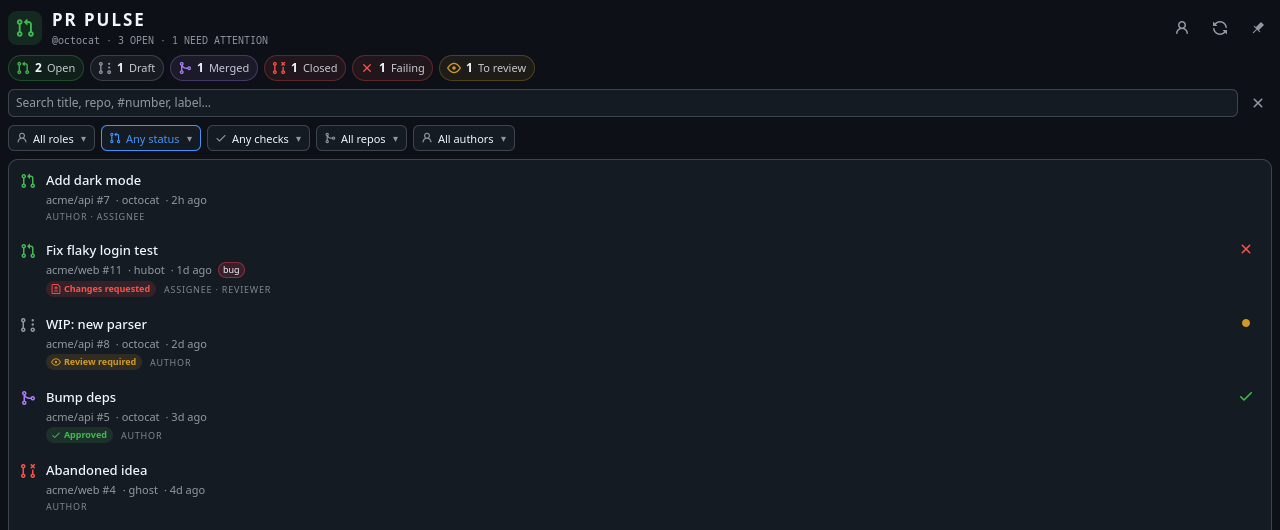
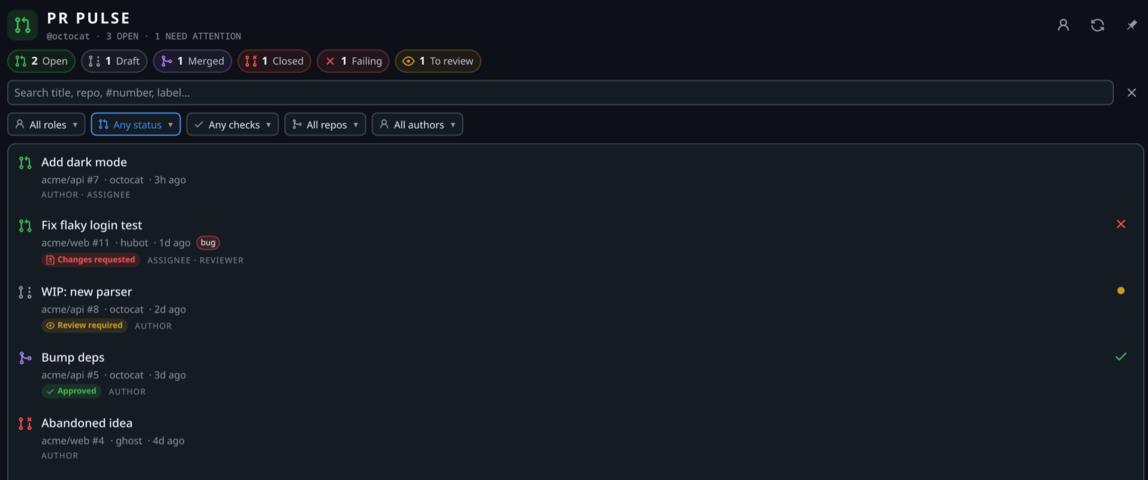
fix: size popup from grid units and refresh README screenshots

diff --git a/contents/ui/main.qml b/contents/ui/main.qml
@@ -56,8 +56,8 @@ PlasmoidItem {
     toolTipSubText: error && !prs.length ? errorTitle(error) : i18n("%1 open · %2 need attention · %3 failing CI", activeCount, attention.length, counts.ci_failing || 0)
     // The desktop supplies its own translucent surface below; panel popups keep native Plasma chrome.
     Plasmoid.backgroundHints: isDesktop ? PlasmaCore.Types.NoBackground : PlasmaCore.Types.DefaultBackground
-    switchWidth: isDesktop ? -1 : 380
-    switchHeight: isDesktop ? -1 : 420
+    switchWidth: isDesktop ? -1 : Kirigami.Units.gridUnit * 20
+    switchHeight: isDesktop ? -1 : Kirigami.Units.gridUnit * 20
     preferredRepresentation: isDesktop ? fullRepresentation : null
     hideOnWindowDeactivate: !Plasmoid.configuration.pin
 
@@ -94,10 +94,10 @@ PlasmoidItem {
 
     fullRepresentation: Rectangle {
         id: panel
-        Layout.minimumWidth: 420
-        Layout.minimumHeight: 420
-        Layout.preferredWidth: 500
-        Layout.preferredHeight: 640
+        Layout.minimumWidth: Kirigami.Units.gridUnit * 26
+        Layout.minimumHeight: Kirigami.Units.gridUnit * 24
+        Layout.preferredWidth: Kirigami.Units.gridUnit * 36
+        Layout.preferredHeight: Kirigami.Units.gridUnit * 40
         radius: root.isDesktop ? 14 : 0
         color: root.isDesktop
             ? Qt.alpha(root.colors.surface, Math.max(10, Plasmoid.configuration.desktopOpacity) / 100)

diff --git a/README.md b/README.md
@@ -4,8 +4,11 @@ A native Plasma 6 widget for the GitHub pull requests that need you: the ones **
 
 ![Plasma 6](https://img.shields.io/badge/Plasma-6-1d99f3) ![Python 3](https://img.shields.io/badge/Python-3.11%2B-3776ab) ![gh CLI](https://img.shields.io/badge/gh-CLI-24292f) ![License](https://img.shields.io/badge/license-MIT-22c55e)
 
-![PR Pulse in the dark theme with synthetic pull requests](docs/screenshots/pr-pulse-dark.png)
-![PR Pulse in the light theme with synthetic pull requests](docs/screenshots/pr-pulse-light.png)
+| Dark | Light |
+| --- | --- |
+| ![PR Pulse in the dark theme with synthetic pull requests](docs/screenshots/pr-pulse-dark.png) | ![PR Pulse in the light theme with synthetic pull requests](docs/screenshots/pr-pulse-light.png) |
+
+<sub>Screenshots use synthetic fixture data from `tests/fixtures`.</sub>
 
 ## What it shows
 

diff --git a/CHANGELOG.md b/CHANGELOG.md
@@ -8,4 +8,5 @@
 - Role, status, CI, repository, author, and text filters that persist across restarts, plus clickable status chips
 - System, light, and dark themes; desktop opacity; panel badge for open or attention-needing PRs
 - Recently merged and closed history (7 days by default), 3-minute default refresh, and a pin for the taskbar popup
+- Popup size scales with the Plasma font grid unit so it opens wide enough without resizing
 - Tests, packaging, CI, and tag-driven release automation
